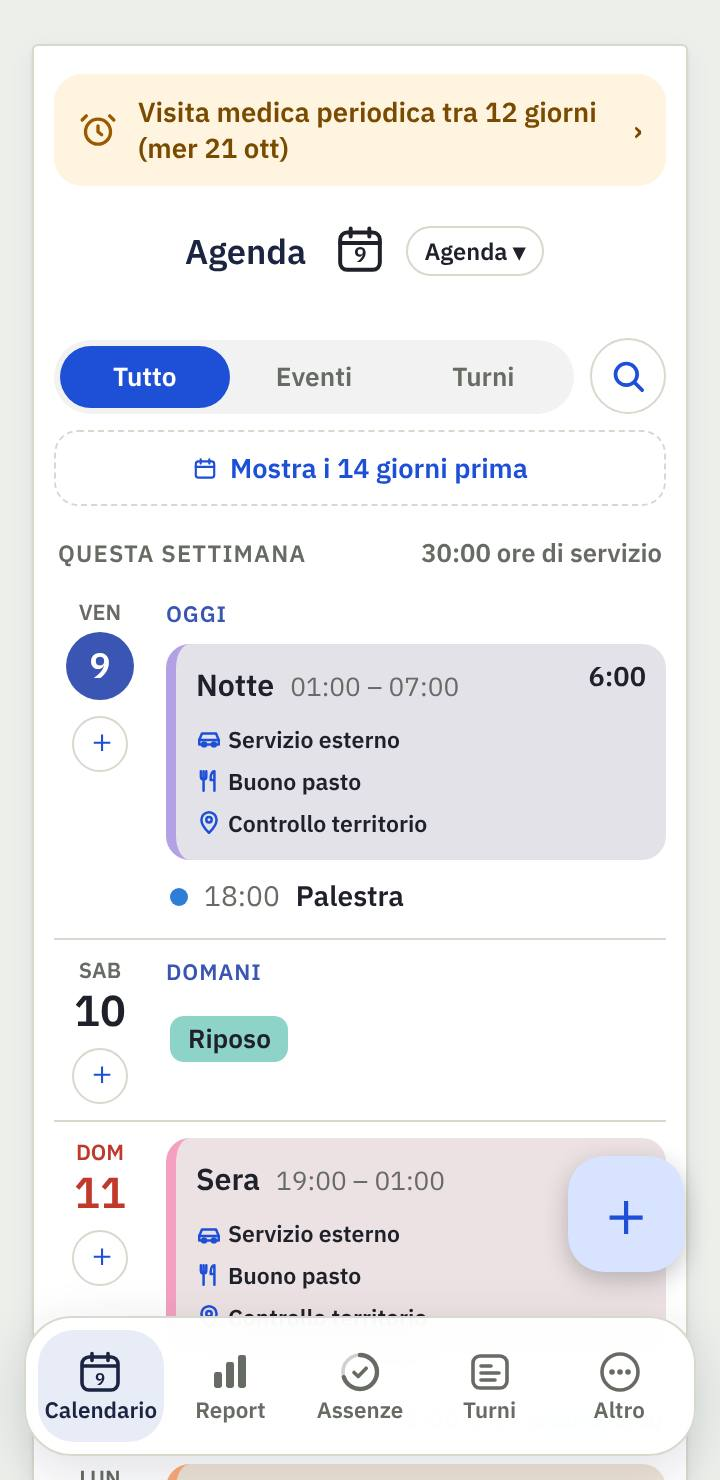
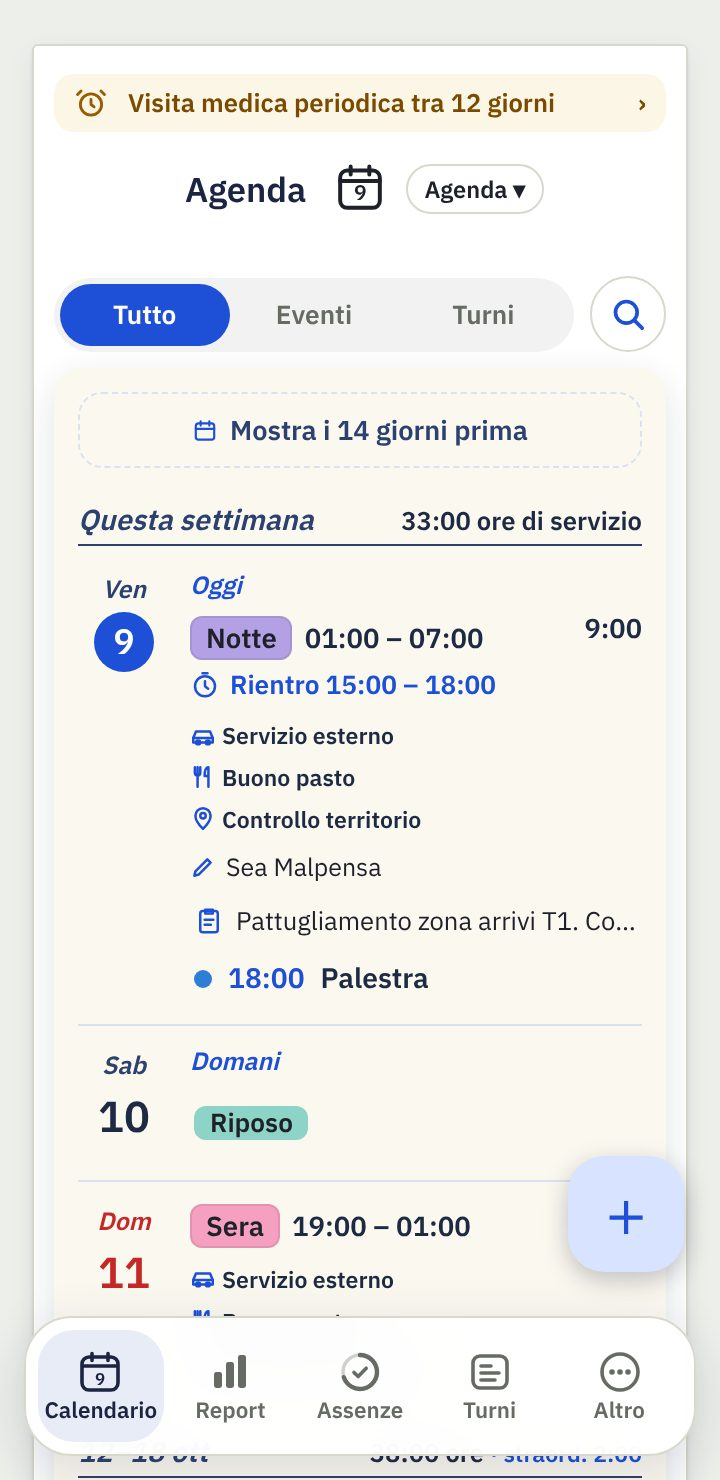
Guida Turni: aggiornata alla 3.8.32 (Agenda come il Diario, note, nuovi nomi)
Claude-Session: https://claude.ai/code/session_01PSeREU5gDDB7bRrUAU7GkJ

diff --git a/guida-turni.html b/guida-turni.html
@@ -23,7 +23,7 @@ a{color:#2E4A8F}
 @media(max-width:600px){.sez{grid-template-columns:1fr}.sez img{width:min(240px,70vw);margin:4px auto 0}.tab td:first-child{white-space:normal}}
 </style></head><body>
 <h1>Guida a Turni & Accessorio PS</h1>
-<p class="agg">Come si usa l'app, passo per passo · aggiornata alla versione 3.8.31</p>
+<p class="agg">Come si usa l'app, passo per passo · aggiornata alla versione 3.8.32</p>
 <nav><a href="#inizio">Primi passi</a><a href="#calendario">Calendario</a><a href="#cerca">Cerca o chiedi</a><a href="#voce">Detta a voce</a><a href="#giorno">Il giorno e le indennità</a><a href="#sequenza">Turni</a><a href="#report">Report</a><a href="#assenze">Assenze</a><a href="#altro">Altro</a><a href="#promemoria">Promemoria e widget</a><a href="#utilita">Utilità</a><a href="#link">Link utili</a><a href="#backup">Backup</a><a href="#domande">Domande</a></nav>
 
 <h2 id="inizio">1. Primi passi</h2>
@@ -55,7 +55,7 @@ a{color:#2E4A8F}
 <li>Se una <b>scadenza</b> è vicina (entro un mese), compare in una riga sottile sopra il mese; toccandola apri le Scadenze.</li>
 </ul>
 </div><img src="turni/guida/calendario.jpg" alt="Calendario del mese" loading="lazy"></div>
-<div class="sez"><div><p><b>Vista Diario</b> (da <b>Mese ▾ → Diario</b>): la settimana come un'agenda di carta, su due pagine con la spirale. Otto riquadri uguali: a sinistra da lunedì a giovedì, a destra venerdì, sabato, domenica e le <b>Note della settimana</b>, da scrivere direttamente sulle righe (si salvano da sole, entrano nel backup e le trova anche la lente). Per ogni giorno: turno con orario, rientro, straordinario, servizio svolto, le <b>indennità</b> come icone piccole, appuntamenti con l'ora, la prima riga delle note di servizio, veicolo e scadenze. <b>Scorri col dito</b> (o usa ‹ ›) per girare pagina; <b>tocca un giorno</b> per aprire la sua pagina. Con il tema scuro la carta diventa blu notte.</p></div><img src="turni/guida/diario.jpg" alt="Vista Diario" loading="lazy"></div>
+<div class="sez"><div><p><b>Vista Diario</b> (da <b>Mese ▾ → Diario</b>): la settimana come un'agenda di carta, su due pagine con la spirale. A sinistra da lunedì a giovedì, a destra venerdì, sabato e domenica. Per ogni giorno: turno con orario, rientro, straordinario, servizio svolto, le <b>indennità</b> come icone piccole, appuntamenti con l'ora, la prima riga delle note di servizio, veicolo e scadenze. <b>Scorri col dito</b> (o usa ‹ ›) per girare pagina; <b>tocca un giorno</b> per aprire la sua pagina. Con il tema scuro la carta diventa blu notte.</p></div><img src="turni/guida/diario.jpg" alt="Vista Diario" loading="lazy"></div>
 <div class="sez"><div><p><b>Pagina del giorno</b> (nel Diario, tocca un giorno): come un'agenda giornaliera. In alto turno con orario (toccalo per modificarlo), rientro, servizio svolto, indennità con il loro nome ed eventi. Sotto ci sono le <b>Note di servizio</b>: scrivi direttamente sulle righe com'è andato il servizio, quanto vuoi; si salvano da sole, entrano nel backup, compaiono in Altro → Note e le trova la lente. Con <b>‹ ›</b> o scorrendo col dito passi al giorno prima o dopo; <b>‹ Settimana</b> riporta alla settimana. Col telefono in orizzontale o sul tablet le pagine sono due affiancate, un giorno a sinistra e uno a destra.</p></div><img src="turni/guida/pagina-giorno.jpg" alt="Pagina del giorno con le note di servizio" loading="lazy"></div>
 <div class="sez"><div><p><b>Vista Anno</b>: tutto l'anno in una schermata, con i turni a colori e le ferie in evidenza.</p></div><img src="turni/guida/anno.jpg" alt="Vista Anno" loading="lazy"></div>
 <h3 id="cerca">Cerca o chiedi (la lente)</h3>
@@ -74,15 +74,15 @@ a{color:#2E4A8F}
 <p>Ogni casella mostra il turno (Sera, Pom., Notte…), un pallino colorato per ogni evento e, se quel giorno hai fatto <b>straordinario</b>, le ore sotto il turno (per esempio <b>+2h</b>). Le indennità del giorno le vedi toccando il giorno, scritte per esteso nel riquadro sotto il calendario (per esempio "2 buoni pasto"), e nell'agenda.</p>
 <h3>Agenda</h3>
 <div class="sez"><div>
-<p>L'Agenda si apre toccando la <b>lente</b> in alto: i giorni in elenco con turno, orario, ore, indennità, servizio svolto, festività ed eventi, e il totale delle ore di ogni settimana.</p>
+<p>L'Agenda si apre toccando la <b>lente</b> in alto: i giorni in elenco, sulla stessa carta del Diario, con turno, orario, rientro, ore, indennità, servizio svolto, note di servizio, festività ed eventi, e il totale delle ore di ogni settimana. Il pulsante <b>‹ Calendario</b> in alto riporta alla vista in cui eri.</p>
 <ul>
 <li>In alto scegli <b>Tutto</b>, <b>Eventi</b> (solo gli appuntamenti, come un'agenda) o <b>Turni</b>.</li>
 <li>La <b>lente</b> cerca negli eventi (anche luogo e note) e nei servizi svolti: "dentista", "stadio"…</li>
-<li>Il <b>＋</b> sotto ogni data crea un evento su quel giorno.</li>
+<li>Tocca il <b>numero del giorno</b> per creare un evento su quel giorno; tocca il turno per modificarlo; tocca una nota di servizio per aprire la pagina del giorno.</li>
 <li><b>Mostra i giorni prima</b> fa vedere i giorni passati; scorrendo in giù i giorni dopo arrivano da soli. Il tasto con il numero di oggi riporta a oggi.</li>
 </ul>
 <p>In Agenda lo <b>straordinario</b> si vede a parte: per esempio <b>6:00 +2:00</b> vuol dire 6 ore di turno e 2 di straordinario. Toccando un evento si apre per modificarlo.</p>
-</div><img src="turni/guida/agenda.jpg" alt="Agenda con filtri, ricerca e ＋ sui giorni" loading="lazy"></div>
+</div><img src="turni/guida/agenda.jpg" alt="Agenda con la grafica del Diario" loading="lazy"></div>
 
 <h2 id="voce">3. Detta a voce</h2>
 <div class="sez"><div>
@@ -142,7 +142,7 @@ a{color:#2E4A8F}
 <h2 id="sequenza">5. Turni</h2>
 <div class="sez"><div>
 <h3 style="margin-top:0">Turni automatici</h3>
-<p>In <b>Turni → Genera turni automaticamente</b>:</p>
+<p>In <b>Turni → Turnazione automatica</b>:</p>
 <ol>
 <li>scegli la sequenza (o creane una tua con i tuoi turni);</li>
 <li>indica cosa fai il primo giorno;</li>
@@ -153,7 +153,7 @@ a{color:#2E4A8F}
 <h3>Riempi più giorni</h3>
 <div class="sez"><div>
 <p>In <b>Turni → Riempi più giorni</b> si apre il calendario con una barra in basso: scegli un turno (o <b>Cancella</b>) e <b>tocca i giorni</b> uno dopo l'altro. Premi <b>Fine</b> quando hai finito; se hai sbagliato, tocca <b>Annulla</b> nell'avviso.</p>
-<p>Sempre in <b>Turni</b>, nella parte Strumenti, trovi anche <b>Cancella i turni di un mese</b>.</p>
+<p>Sempre in <b>Turni</b>, nella parte Strumenti, trovi anche <b>Cancella un mese</b>.</p>
 </div><img src="turni/guida/pennello.jpg" alt="Riempi più giorni" loading="lazy"></div>
 <h3>I tuoi modelli di turno</h3>
 <p>In <b>Turni → I tuoi turni</b> trovi i modelli (es. 07–13, 19–24) con orario, nome e colore. Tocca un modello per cambiarlo o creane uno nuovo. Se cambi l'orario di un modello, l'app chiede cosa aggiornare:</p>
@@ -162,10 +162,10 @@ a{color:#2E4A8F}
 <li><b>tutti, anche il passato</b>;</li>
 <li><b>solo i turni che inserirò</b>: il calendario non cambia.</li>
 </ul>
-<p>Il <b>colore</b> di un turno si cambia toccando il turno qui, alla voce Colore. In <b>Turni → Stile calendario</b> scegli, guardando l'anteprima, lo stile Classico (casella colorata con la lettera) o Moderno (etichetta con il nome) e se il calendario è a colori. <b>Colori predefiniti dei turni</b>, sempre negli Strumenti, rimette i colori di partenza. Anche ogni assenza può avere il suo colore: in <b>Assenze</b> apri la voce e scegli <b>Colore nel calendario</b>.</p>
+<p>Il <b>colore</b> di un turno si cambia toccando il turno qui, alla voce Colore. In <b>Turni → Stile calendario</b> scegli, guardando l'anteprima, lo stile Classico (casella colorata con la lettera) o Moderno (etichetta con il nome) e se il calendario è a colori. <b>Colori di serie</b>, sempre negli Strumenti, rimette i colori di partenza. Anche ogni assenza può avere il suo colore: in <b>Assenze</b> apri la voce e scegli <b>Colore nel calendario</b>.</p>
 <h3>Esportare in Google Calendar</h3>
 <ol>
-<li><b>Turni → Esporta in Google Calendar</b>: scegli il mese visualizzato, i prossimi 3 mesi o tutto l'anno, e se includere riposi e assenze.</li>
+<li><b>Turni → Esporta i turni</b>: scegli il mese visualizzato, i prossimi 3 mesi o tutto l'anno, e se includere riposi e assenze.</li>
 <li>Salva il file (o mandalo a te stesso per email).</li>
 <li>Dal computer apri <b>calendar.google.com</b> → ⚙ Impostazioni → <b>Importa ed esporta</b> → Importa, e scegli il file. I turni compaiono anche sul telefono.</li>
 </ol>
@@ -177,7 +177,7 @@ a{color:#2E4A8F}
 <li>In alto: quanto <b>arriva sul conto</b> nel mese, con stipendio, indennità e tasse. Con ‹ › cambi mese.</li>
 <li><b>Il mese</b>: turni, riposi, ore, straordinario e le indennità con <b>lordo e netto</b>.</li>
 <li>In fondo: <b>buoni pasto</b>, <b>Cedolino stimato</b> e <b>Statistiche dell'anno</b>. Si aprono toccando la loro riga.</li>
-<li>Con <b>Personalizza</b> in alto scegli quali di queste parti vedere.</li>
+<li>Con l'<b>icona dei cursori</b> in alto a destra scegli quali di queste parti vedere.</li>
 </ul>
 <div class="att">⚠ È una <b>stima</b>. Il netto vero può essere diverso di qualche euro: arretrati, conguagli, rimborsi del 730. Confronta sempre con il cedolino ufficiale.</div>
 <p class="nota">Lo stipendio arriva il mese dopo quello lavorato; indennità e straordinari due mesi dopo (quelli di settembre a novembre). La tredicesima arriva a dicembre. Il Report lo tiene già in conto.</p>
@@ -195,7 +195,7 @@ a{color:#2E4A8F}
 <h2 id="assenze">7. Assenze</h2>
 <div class="sez"><div>
 <ul>
-<li>In alto i <b>Giorni di partenza</b>, con <b>Modifica</b>.</li>
+<li>In alto l'<b>anno</b> con le frecce ‹ › e i <b>Giorni di partenza</b>, con <b>Modifica</b>.</li>
 <li>Ogni voce su una riga, con il suo colore: quanto <b>rimane su quanto spetta</b>. L'<b>anello</b> è pieno quando è tutta da usare e si svuota man mano; grigio per le voci a 0. Il congedo ordinario mostra anche i giorni di ogni anno.</li>
 <li>Sotto ogni voce vedi le <b>date che hai chiesto</b> (es. «10–14 ago · 21–23 dic»): grigie quelle passate, blu quelle ancora da fare.</li>
 <li>In alto, con <b>‹ 2026 ›</b>, cambi anno: dal 1° gennaio vedi le date del nuovo anno, quelle vecchie restano nel loro anno. Le ferie già chieste per l'anno dopo le vedi con <b>›</b>, e sotto il congedo compare «+ 2 già chiesti per il 2027».</li>
@@ -224,7 +224,7 @@ a{color:#2E4A8F}
 <tr><td>Riposo compensativo</td><td>Ore automatiche: salgono con lo straordinario messo a riposo, scendono quando lo usi indicando l'orario del turno sostituito.</td></tr>
 <tr><td>Aspettativa, maternità/paternità, congedo parentale</td><td>Solo per segnare i giorni sul calendario.</td></tr>
 </table>
-<p>Con <b>Nuova assenza</b> in alto (o <b>＋ Aggiungi un'assenza tua</b> in fondo) crei una voce tua: poi nella sua scheda le dai nome e quanto spetta.</p>
+<p>Con <b>＋ Assenza</b> in alto (o <b>＋ Aggiungi un'assenza tua</b> in fondo) crei una voce tua: poi nella sua scheda le dai nome e quanto spetta.</p>
 
 <h2 id="altro">8. Altro</h2>
 <div class="sez"><div>
@@ -269,7 +269,7 @@ a{color:#2E4A8F}
 <div class="sez"><div>
 <ul>
 <li><b>Scadenze</b>: visita medica, tiro, tesserino, patente di servizio, corsi. Scegli la data, se si ripete (ogni anno, ogni 2 anni…) e quando avvisarti (1 mese prima, 1 settimana, il giorno). Quando ne manca meno di un mese compare una striscia in cima al calendario. Con «Fatta: sposta alla prossima» si rinnova da sola.</li>
-<li><b>Note di servizio</b>: appunti veloci, da cercare, fissare in alto, legare a un giorno o dettare a voce.</li>
+<li><b>Note di servizio</b>: tutte le note scritte, da cercare. Quelle di un giorno si scrivono sulla <b>pagina del giorno</b> nel Diario e toccandole si riapre lì; qui puoi anche scrivere appunti senza giorno (numeri utili, promemoria) e fissarli in alto. Le vecchie «Note della settimana» si trovano nelle note del lunedì.</li>
 <li><b>Cambi con i colleghi</b>: chi ti ha sostituito e chi hai sostituito, con il saldo (devi / ti devono) e il tasto «Restituito». È solo un promemoria: non cambia la paga.</li>
 </ul>
 </div><img src="turni/guida/utilita.jpg" alt="Scadenze" loading="lazy"></div>
@@ -278,7 +278,7 @@ a{color:#2E4A8F}
 <li><b>Gestione veicolo</b>: i tuoi mezzi (sigla e targa) e le uscite con presa e riconsegna, km (scritti o dettati, i km percorsi si calcolano da soli), carburante, rifornimento, collega, anomalie e appunti. In una nuova uscita i km di partenza sono quelli lasciati l'ultima volta.</li>
 </ul>
 </div><img src="turni/guida/veicolo.jpg" alt="Gestione veicolo" loading="lazy"></div>
-<p>Le stesse cose si aggiungono anche dal giorno: tocca il turno e, sotto «Altro per questo giorno», trovi <b>Veicolo</b>, <b>Scambio con un collega</b> e <b>Note di servizio</b>.</p>
+<p>Le stesse cose si aggiungono anche dal giorno: tocca il turno e, sotto «Altro per questo giorno», trovi <b>Veicolo</b>, <b>Scambio con un collega</b> e <b>Scrivi le note di servizio</b> (apre la pagina del giorno, salvando prima quello che hai cambiato).</p>
 <p>Veicolo, note e scambi si vedono anche sotto il giorno selezionato, nel <b>Diario</b> e in <b>Agenda</b>; toccandoli si apre la scheda. La lente dell'Agenda cerca anche nelle note e nelle uscite del veicolo (mezzo, targa, anomalie).</p>
 
 <h3 id="link">Link utili</h3>
@@ -311,7 +311,7 @@ a{color:#2E4A8F}
 <details><summary>Perché il netto non è uguale alla mia busta paga?</summary><p>L'app fa una stima con le tabelle ufficiali. Per avvicinarla al cedolino: in Anagrafica scrivi il <b>reddito</b> e l'<b>addizionale regionale dell'anno scorso</b> (dalla CU), l'<b>addizionale comunale</b> e la <b>quota sindacale</b>. Arretrati, conguagli di fine anno e rimborsi del 730 restano fuori: li puoi aggiungere con <b>± Conguaglio</b> nel cedolino.</p></details>
 <details><summary>Non vedo l'indennità di controllo del territorio</summary><p>Controlla che il turno abbia almeno 3 ore tra le 18 e le 22 o tra le 22 e le 6, e che non ci sia anche l'ordine pubblico. Toccando il giorno la vedi nel riquadro sotto il calendario.</p></details>
 <details><summary>Ho sbagliato i giorni di congedo iniziali</summary><p>In <b>Assenze</b> tocca <b>Modifica</b> accanto a "Giorni di partenza" e scrivi i numeri che ti dà l'ufficio oggi.</p></details>
-<details><summary>Ho cambiato turnazione</summary><p>In <b>Turni → Genera turni automaticamente</b> scegli la nuova sequenza e la data da cui parte: i giorni da quella data vengono riscritti, ferie e assenze restano.</p></details>
+<details><summary>Ho cambiato turnazione</summary><p>In <b>Turni → Turnazione automatica</b> scegli la nuova sequenza e la data da cui parte: i giorni da quella data vengono riscritti, ferie e assenze restano.</p></details>
 <details><summary>Il promemoria non arriva</summary><p>Controlla che le notifiche dell'app siano permesse e che la batteria dell'app sia "Senza restrizioni" nelle impostazioni di Android.</p><p><b>Su Xiaomi, Redmi e POCO</b> non basta accendere le notifiche dell'app: in Impostazioni → App → Turni & Accessorio PS → Notifiche → <b>Categorie di notifica</b>, apri ogni categoria (Promemoria eventi, Promemoria del turno, Avvisi evento) e accendi <b>Visualizza le notifiche</b>. Se una categoria è spenta l'app te lo dice, e "Attiva notifiche" ti porta direttamente lì.</p></details>
 <details><summary>Il promemoria non suona con il telefono in silenzioso</summary><p>È normale: la notifica rispetta il silenzioso e "Non disturbare" del telefono. Se per un evento vuoi sentirla comunque, apri l'evento, tocca <b>Altre opzioni</b> e accendi <b>Suona anche in silenzioso</b>. Suona e vibra per 10 secondi, e il tasto <b>Spegni</b> nella notifica lo ferma subito.</p></details>
 <details><summary>L'app manda i miei dati da qualche parte?</summary><p>No. Turni, stipendio e assenze restano sul telefono. L'app scarica solo il file pubblico delle tabelle dal sito, una volta a settimana. Il backup su Drive va solo nel tuo account Google. Vedi l'<a href="privacy-turni.html">informativa privacy</a>.</p></details>
